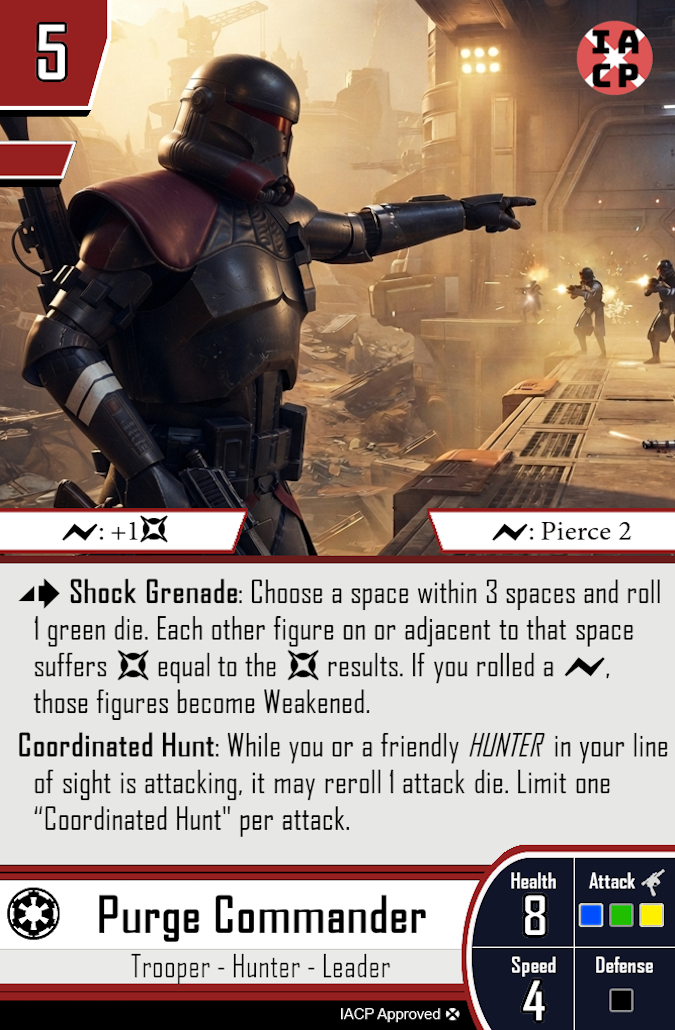
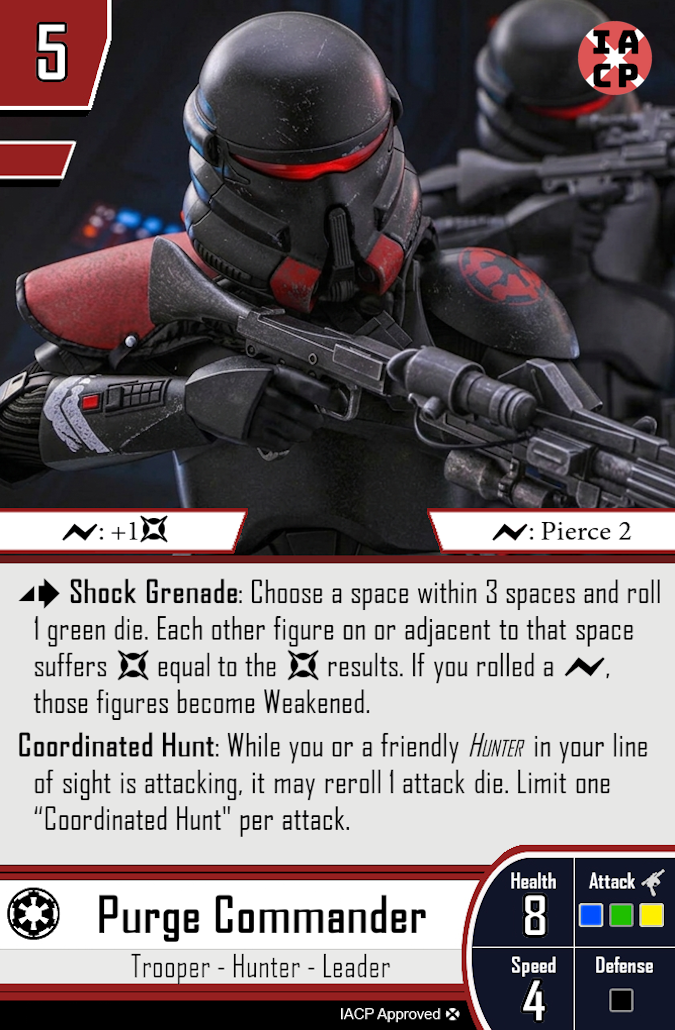
Updated Purge Commander Artwork

diff --git a/CHANGELOG.md b/CHANGELOG.md
@@ -47,6 +47,7 @@ and this project adheres to [Semantic Versioning](https://semver.org/spec/v2.0.0
 - **PT filter button:** Toggle beside FFG/IACP/ALL to show only playtest cards; turns AUTO off when enabled and restores AUTO when disabled. Tooltip: "Isolate Playtesting Cards".
 
 ### Changed
+- Updated Purge Commander Artwork (2026-09-23)
 - Updated final S11 & S12 cards. Moved: KX, Bo-Katan, AT-RT, Gauntlet B, YWNDM to continued testing. Deleted: Eye on the Prize (2026-09-22)
 - Added 3 new Pre-Built lists (2026-09-19)
 <<<<<<< HEAD
